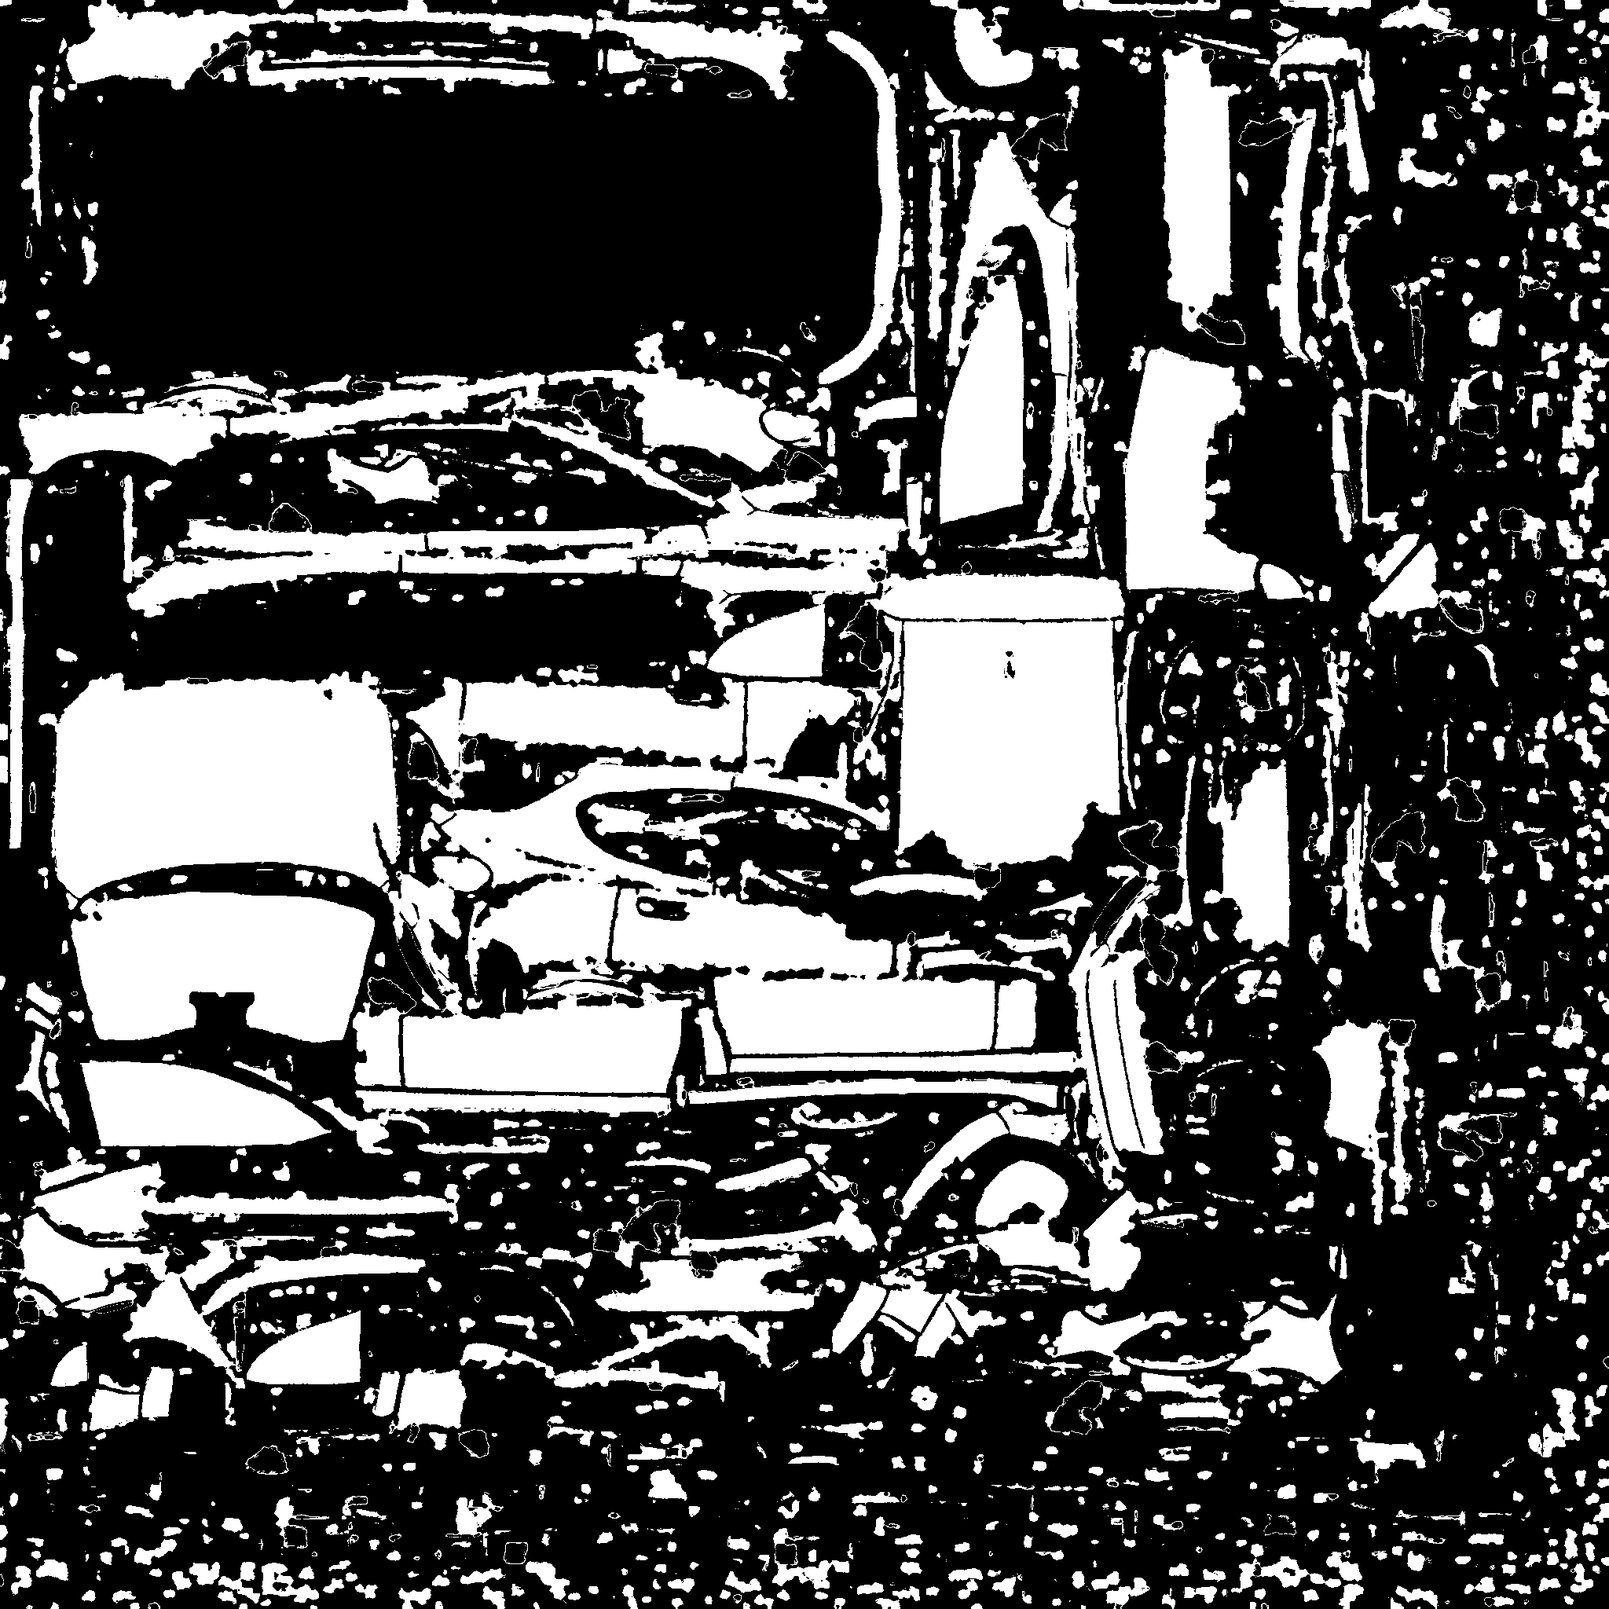
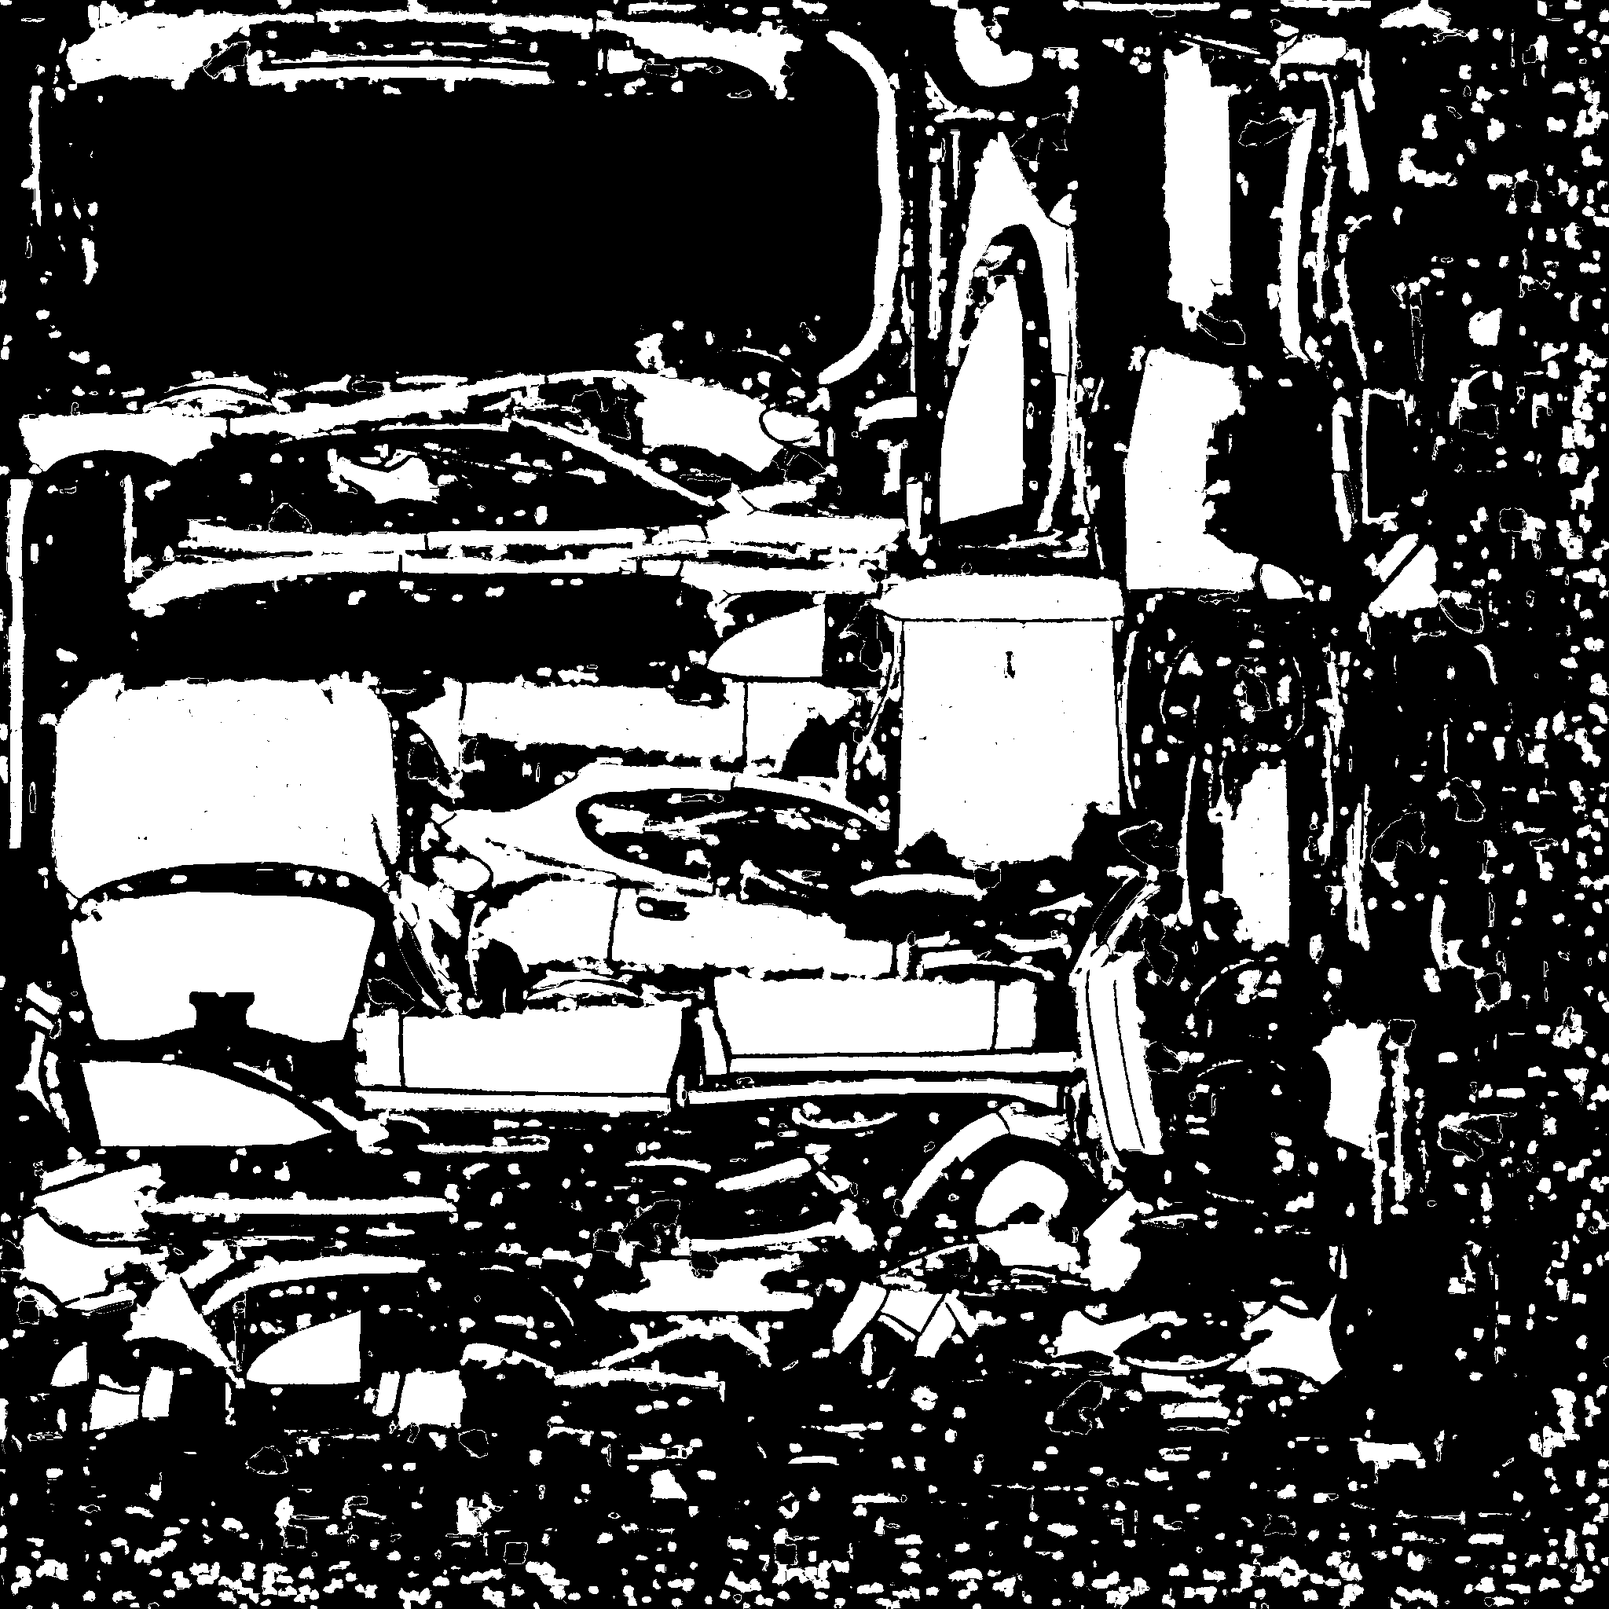
Lackmaske auf die UV-Abdeckung begrenzen, plus Kontrollansicht
paintmask.abdeckung rasterisiert die UV-Dreiecke und begrenzt die Maske auf
die Texel, die ueberhaupt auf dem Modell landen. Die Abtastdichte richtet sich
nach der laengsten Kante eines Dreiecks in Texeln; was groesser ist als die
letzte Stufe, wird einzeln und exakt rasterisiert. Die dominante Farbe wird
ebenfalls nur noch aus den geltenden Texeln bestimmt.

Der Anlass war eine Fehldiagnose, und die gehoert festgehalten. Die Maske war
nicht verrauscht und der Atlas nicht halb leer:

  32,9 % der genutzten Flaeche, und die sind 97,1 % des Atlas
   0,8 % vereinzelte Texel

Bei 97,1 Prozent Belegung gibt es keinen nennenswerten unbenutzten Bereich,
aus dem Muell haette kommen koennen. Was im Schwarzweissbild wie Sprenkel
aussah, ist die Chart-Struktur: xatlas zerlegt das Fahrzeug in rund 8000
Flicken, eine durchgehende Motorhaube erscheint darin als tausend Inseln. Das
Rauschmass - Anteil der Maskentexel ohne maskierte Nachbarn - liegt bei 0,8
Prozent, die Maske ist also zusammenhaengend.

Gegengeprueft, ob Lack uebersehen wird: von den roten, bunten Texeln erfasst
die Maske 80,6 Prozent. Die fehlenden 19,4 Prozent haben eine Helligkeit von
im Median 0,034 und selbst im 90. Perzentil nur 0,109 - Schattenbereiche der
3D-Schattierung, die das 2D-System mit helligkeit_min 0.06 bewusst ausschliesst.

Die Begrenzung bleibt trotzdem drin: sie ist richtig und greift bei Modellen
mit duenner besetztem Atlas.

Neu ist ausserdem die Kontrollansicht neben der Maske - die Textur mit
[…]

diff --git a/trellis_pipeline/paintmask.py b/trellis_pipeline/paintmask.py
@@ -105,14 +105,21 @@ def _arrays(bild: Image.Image) -> tuple[np.ndarray, np.ndarray]:
 
 def dominante_farbe(bild: Image.Image) -> tuple[int, int, int]:
     """Haeufigste sichtbare Farbe - der Rueckfall fuer die Referenzfarbe."""
-    return _dominante_arr(*_arrays(bild))
+    rgb, alpha = _arrays(bild)
+    return _dominante_arr(rgb, alpha > _ALPHA_SICHTBAR)
 
 
-def _dominante_arr(rgb: np.ndarray, alpha: np.ndarray) -> tuple[int, int, int]:
-    sichtbar = rgb[alpha > _ALPHA_SICHTBAR]
-    if sichtbar.size == 0:
+def _dominante_arr(rgb: np.ndarray, gilt: np.ndarray) -> tuple[int, int, int]:
+    """Haeufigste Farbe unter den geltenden Texeln.
+
+    ``gilt`` ist bereits die fertige Auswahl - bei einem Atlas also inklusive
+    UV-Abdeckung. Ohne das waere die dominante Farbe womoeglich die des
+    unbenutzten Atlasbereichs, der oft groesser ist als das Fahrzeug.
+    """
+    auswahl = rgb[gilt]
+    if auswahl.size == 0:
         return (128, 128, 128)
-    grob = (sichtbar // 16).astype(np.int32)
+    grob = (auswahl // 16).astype(np.int32)
     schluessel = grob[:, 0] * 1024 + grob[:, 1] * 32 + grob[:, 2]
     werte, anzahl = np.unique(schluessel, return_counts=True)
     top = int(werte[anzahl.argmax()])
@@ -120,15 +127,150 @@ def _dominante_arr(rgb: np.ndarray, alpha: np.ndarray) -> tuple[int, int, int]:
             int((top % 32) * 16 + 8))
 
 
-def maske(bild: Image.Image, werte: dict) -> np.ndarray:
+#: Wieviele Texel Saum die Abdeckung ueber die Dreiecke hinaus bekommt.
+#: Der Texturierer laesst um jeden Chart einen Rand mitlaufen, damit beim
+#: Filtern nichts Fremdes hereingezogen wird. Dieser Rand gehoert zum Lack.
+ABDECKUNG_SAUM = 2
+
+#: Abtaststufen. Ein Dreieck kommt in die erste Stufe, deren Ordnung mindestens
+#: seiner laengsten Kante in Texeln entspricht - so faellt zwischen den
+#: Abtastpunkten nie mehr als ein Texel durch. Was groesser ist als die letzte
+#: Stufe, wird einzeln rasterisiert.
+ABDECKUNG_STUFEN = (2, 4, 8, 16, 32)
+
+#: Wieviele Dreiecke auf einmal abgetastet werden. 460.000 Dreiecke mal 15
+#: Punkte auf einen Schlag waeren einige hundert Megabyte.
+ABDECKUNG_BLOCK = 100_000
+
+
+def _baryzentrisch(ordnung: int) -> np.ndarray:
+    """Gleichmaessige Punkte im Dreieck, als Gewichte der drei Ecken."""
+    punkte = [(i / ordnung, j / ordnung, (ordnung - i - j) / ordnung)
+              for i in range(ordnung + 1) for j in range(ordnung + 1 - i)]
+    return np.asarray(punkte, dtype=np.float32)
+
+
+def _abtasten(ecken: np.ndarray, ordnung: int, breite: int, hoehe: int,
+              deck: np.ndarray) -> None:
+    """Dreiecke gleicher Groessenordnung auf einen Schlag abtasten."""
+    gewichte = _baryzentrisch(ordnung)
+    for start in range(0, len(ecken), ABDECKUNG_BLOCK):
+        block = ecken[start:start + ABDECKUNG_BLOCK]            # (n, 3, 2)
+        punkte = np.einsum("kd,ndc->nkc", gewichte, block)      # (n, k, 2)
+        _eintragen(punkte[..., 0].ravel(), punkte[..., 1].ravel(),
+                   breite, hoehe, deck)
+
+
+def _eintragen(u: np.ndarray, v: np.ndarray, breite: int, hoehe: int,
+               deck: np.ndarray) -> None:
+    # v = 0 liegt in glTF unten, Zeile 0 eines Bildes liegt oben.
+    spalte = np.clip(np.rint(u * (breite - 1)), 0, breite - 1).astype(np.int32)
+    zeile = np.clip(np.rint((1.0 - v) * (hoehe - 1)), 0, hoehe - 1).astype(np.int32)
+    deck[zeile, spalte] = True
+
+
+def _rasterisieren(ecken: np.ndarray, breite: int, hoehe: int,
+                   deck: np.ndarray) -> None:
+    """Einzeln und vollstaendig - fuer die wenigen sehr grossen Dreiecke.
+
+    Ueber das umschliessende Rechteck und einen baryzentrischen Test. Fuer
+    tausende kleine Dreiecke waere das viel zu langsam, fuer eine Handvoll
+    grosse ist es genau richtig und exakt.
+    """
+    for dreieck in ecken:
+        x = dreieck[:, 0] * (breite - 1)
+        y = (1.0 - dreieck[:, 1]) * (hoehe - 1)
+        x0, x1 = int(np.floor(x.min())), int(np.ceil(x.max()))
+        y0, y1 = int(np.floor(y.min())), int(np.ceil(y.max()))
+        x0, y0 = max(x0, 0), max(y0, 0)
+        x1, y1 = min(x1, breite - 1), min(y1, hoehe - 1)
+        if x1 < x0 or y1 < y0:
+            continue
+        gx, gy = np.meshgrid(np.arange(x0, x1 + 1), np.arange(y0, y1 + 1))
+        flaeche = ((x[1] - x[0]) * (y[2] - y[0]) - (x[2] - x[0]) * (y[1] - y[0]))
+        if abs(flaeche) < 1e-12:
+            continue
+        a = ((x[1] - gx) * (y[2] - gy) - (x[2] - gx) * (y[1] - gy)) / flaeche
+        b = ((x[2] - gx) * (y[0] - gy) - (x[0] - gx) * (y[2] - gy)) / flaeche
+        drin = (a >= -1e-6) & (b >= -1e-6) & (a + b <= 1 + 1e-6)
+        deck[y0:y1 + 1, x0:x1 + 1] |= drin
+
+
+def abdeckung(uv: np.ndarray, faces: np.ndarray, groesse: tuple[int, int],
+              saum: int = ABDECKUNG_SAUM) -> np.ndarray:
+    """Welche Texel der Textur ueberhaupt auf dem Modell landen.
+
+    xatlas packt das Fahrzeug in tausende Flicken und laesst dazwischen grosse
+    Teile des Atlas frei - beim rookie sind es rund 8000 Charts auf 2048 x 2048.
+    Was in den Zwischenraeumen steht, ist Fuellmaterial und wird nie gezeichnet.
+    Eine Lackmaske, die das ganze Bild ansieht, zaehlt es trotzdem mit; im
+    ersten Lauf waren so 32,7 Prozent der Texturflaeche als Lack markiert,
+    ueberzogen mit Sprenkeln aus dem unbenutzten Bereich.
+
+    Abgetastet statt exakt rasterisiert: die Dreiecke sind im Atlas winzig -
+    460.000 Dreiecke auf 4,2 Millionen Texel sind im Mittel neun Texel pro
+    Dreieck -, und 15 baryzentrische Punkte je Dreieck treffen davon jedes.
+    Der Saum schliesst, was zwischen den Abtastpunkten durchfaellt, und bildet
+    zugleich den Rand ab, den der Texturierer um jeden Chart legt.
+
+    ``groesse`` ist (Breite, Hoehe) wie bei Pillow; zurueck kommt ein Feld in
+    Bildanordnung, also (Hoehe, Breite).
+    """
+    breite, hoehe = int(groesse[0]), int(groesse[1])
+    deck = np.zeros((hoehe, breite), dtype=bool)
+    faces = np.asarray(faces)
+    if faces.size == 0 or uv is None or len(uv) == 0:
+        return deck
+
+    uv = np.asarray(uv, dtype=np.float32)
+    alle = uv[faces]                                            # (F, 3, 2)
+
+    # Laengste Kante je Dreieck in Texeln - danach richtet sich die Abtastdichte.
+    in_texeln = alle * np.array([breite - 1, hoehe - 1], dtype=np.float32)
+    kanten = np.linalg.norm(
+        in_texeln - in_texeln[:, [1, 2, 0], :], axis=2).max(axis=1)
+
+    offen = np.ones(len(alle), dtype=bool)
+    for stufe in ABDECKUNG_STUFEN:
+        dran = offen & (kanten <= stufe)
+        if dran.any():
+            _abtasten(alle[dran], stufe, breite, hoehe, deck)
+            offen &= ~dran
+    if offen.any():
+        _rasterisieren(alle[offen], breite, hoehe, deck)
+
+    if saum > 0:
+        from scipy import ndimage
+        deck = ndimage.binary_dilation(
+            deck, structure=np.ones((2 * saum + 1, 2 * saum + 1), dtype=bool))
+    return deck
+
+
+def abdeckung_fuer(mesh, groesse: tuple[int, int]) -> np.ndarray | None:
+    """Abdeckung direkt aus einem Mesh. ``None``, wenn es keine UVs hat."""
+    uv = getattr(getattr(mesh, "visual", None), "uv", None)
+    if uv is None or len(uv) == 0:
+        return None
+    return abdeckung(np.asarray(uv), np.asarray(mesh.faces), groesse)
+
+
+def maske(bild: Image.Image, werte: dict,
+          abdeckung: np.ndarray | None = None) -> np.ndarray:
     """Maskengewichte 0…1 je Texel.
 
     Das **Helligkeitsfenster** gilt in beiden Verfahren. Es ist der Hebel gegen
     mitgezaehlte Scheiben und Reifen: bei einem grauen Auto mit grauen Fenstern
     trennt keine Farbschwelle die beiden, ein Helligkeitsunterschied schon.
+
+    ``abdeckung`` begrenzt das Ergebnis auf die Texel, die tatsaechlich auf dem
+    Modell landen - siehe :func:`abdeckung`. Ohne sie wird das ganze Bild
+    ausgewertet, was bei einem freigestellten 2D-Sprite richtig ist, bei einem
+    UV-Atlas aber nicht.
     """
     rgb, alpha = _arrays(bild)
     sichtbar = alpha > _ALPHA_SICHTBAR
+    if abdeckung is not None:
+        sichtbar = sichtbar & abdeckung
     lum = (0.299 * rgb[..., 0] + 0.587 * rgb[..., 1] + 0.114 * rgb[..., 2]) / 255.0
 
     verfahren = werte.get("verfahren", "aus")
@@ -140,7 +282,7 @@ def maske(bild: Image.Image, werte: dict) -> np.ndarray:
     elif verfahren == "dominant":
         ref = werte.get("referenzfarbe")
         if not ref:
-            ref = _dominante_arr(rgb, alpha)
+            ref = _dominante_arr(rgb, sichtbar)
         abweichung = rgb - np.array(ref[:3], dtype=np.float32)
         # Quadratisch vergleichen - die Wurzel je Texel bringt nichts.
         grenze = float(werte.get("farbtoleranz", 0.18)) * _RGB_DIAGONALE
@@ -164,3 +306,39 @@ def als_png(gewicht: np.ndarray) -> Image.Image:
     """Maske als 8-Bit-Graustufenbild - weiss ist Lack."""
     return Image.fromarray(
         np.clip(gewicht * 255.0, 0, 255).astype(np.uint8), mode="L")
+
+
+#: Wie stark Unmaskiertes im Kontrollbild abgedunkelt wird.
+KONTROLLE_DUNKEL = 0.18
+
+
+def kontrollbild(bild: Image.Image, gewicht: np.ndarray) -> Image.Image:
+    """Die Textur mit abgedunkeltem Nicht-Lack.
+
+    Die reine Schwarzweissmaske ist irrefuehrend: xatlas zerlegt das Fahrzeug
+    in tausende Charts, eine durchgehende Motorhaube erscheint darin als
+    tausend kleine Inseln. Das sieht nach Rauschen aus, ist aber die
+    Atlas-Struktur. Auf der Textur liegend ist sofort erkennbar, ob die roten
+    Flaechen echten Karosserieteilen folgen.
+    """
+    rgb = np.asarray(bild.convert("RGB"), dtype=np.float32)
+    fest = gewicht[..., None] > 0.5
+    return Image.fromarray(
+        np.where(fest, rgb, rgb * KONTROLLE_DUNKEL).astype(np.uint8), mode="RGB")
+
+
+def vereinzelt(gewicht: np.ndarray) -> float:
+    """Anteil der Maskentexel, die kaum maskierte Nachbarn haben.
+
+    Das Mass fuer echtes Rauschen. Eine saubere Flaeche liegt nahe null, weil
+    fast jeder Texel von seinesgleichen umgeben ist; Salz und Pfeffer treibt
+    den Wert nach oben. Am rookie sind es 0,8 Prozent - die Maske ist also
+    zusammenhaengend, auch wenn sie zerstueckelt aussieht.
+    """
+    from scipy import ndimage
+
+    fest = gewicht > 0.5
+    if not fest.any():
+        return 0.0
+    nachbarn = ndimage.uniform_filter(fest.astype(np.float32), size=3)
+    return float((fest & (nachbarn < 0.4)).sum()) / float(fest.sum())

diff --git a/tests/test_abdeckung.py b/tests/test_abdeckung.py
@@ -1,0 +1,120 @@
+"""UV-Abdeckung: welche Texel im Atlas ueberhaupt auf dem Modell landen."""
+import numpy as np
+import pytest
+from PIL import Image
+
+from trellis_pipeline import paintmask
+
+
+def _dreieck_uv():
+    """Ein Dreieck ueber das linke untere Viertel der Textur."""
+    uv = np.array([[0.0, 0.0], [0.5, 0.0], [0.0, 0.5]], dtype=np.float32)
+    faces = np.array([[0, 1, 2]], dtype=np.int64)
+    return uv, faces
+
+
+def test_abgedeckt_ist_wo_das_dreieck_liegt():
+    uv, faces = _dreieck_uv()
+    deck = paintmask.abdeckung(uv, faces, (64, 64), saum=0)
+    # v = 0 ist in glTF unten, in einem Bild ist Zeile 0 oben.
+    assert deck[63, 0], "Ecke bei u=0, v=0 gehoert nach unten links"
+    assert deck[63, 30]
+    assert deck[35, 0]
+    assert not deck[0, 63], "gegenueberliegende Ecke ist unbenutzt"
+
+
+def test_flaeche_stimmt_ungefaehr():
+    uv, faces = _dreieck_uv()
+    deck = paintmask.abdeckung(uv, faces, (128, 128), saum=0)
+    # Halbes Quadrat von einem Viertel der Kantenlaenge = 1/8 der Flaeche
+    assert deck.mean() == pytest.approx(0.125, abs=0.02)
+
+
+def test_saum_erweitert_die_abdeckung():
+    uv, faces = _dreieck_uv()
+    eng = paintmask.abdeckung(uv, faces, (64, 64), saum=0)
+    weit = paintmask.abdeckung(uv, faces, (64, 64), saum=3)
+    assert weit.sum() > eng.sum()
+    assert weit[eng].all(), "der Saum darf nichts wegnehmen"
+
+
+def test_uv_ausserhalb_des_bildes_kippt_nichts():
+    uv = np.array([[-0.5, -0.5], [1.5, 0.0], [0.0, 1.5]], dtype=np.float32)
+    faces = np.array([[0, 1, 2]], dtype=np.int64)
+    deck = paintmask.abdeckung(uv, faces, (32, 32), saum=0)
+    assert deck.shape == (32, 32)
+    assert deck.any()
+
+
+def test_ohne_dreiecke_ist_nichts_abgedeckt():
+    deck = paintmask.abdeckung(np.zeros((0, 2), dtype=np.float32),
+                               np.zeros((0, 3), dtype=np.int64), (16, 16))
+    assert not deck.any()
+
+
+def _textur_mit_muell():
+    """Lack auf der linken Haelfte, rechts unbenutzter Atlasbereich mit Muell.
+
+    Genau die Lage im echten Modell: xatlas laesst grosse Teile des Atlas frei,
+    und was dort steht, landet nie auf dem Fahrzeug - zaehlt aber mit, solange
+    die Maske das ganze Bild ansieht.
+    """
+    rng = np.random.default_rng(5)
+    bild = np.zeros((64, 64, 3), dtype=np.uint8)
+    bild[:, :32] = (203, 60, 59)
+    bild[:, 32:] = rng.integers(0, 255, size=(64, 32, 3), dtype=np.uint8)
+    return Image.fromarray(bild, mode="RGB")
+
+
+ROOKIE_PAINT = {
+    "verfahren": "dominant", "referenzfarbe": [203, 60, 59], "farbtoleranz": 0.3,
+    "helligkeit_min": 0.06, "helligkeit_max": 0.51, "kantenweichheit": 0.0,
+    "deckkraft": 1.0, "saettigungsschwelle": 0.25,
+}
+
+
+def test_maske_ohne_abdeckung_zaehlt_den_muell_mit():
+    """Der Ist-Zustand, gegen den der Fix gebaut ist."""
+    maske = paintmask.maske(_textur_mit_muell(), ROOKIE_PAINT)
+    assert maske[:, 32:].any(), "Vorbedingung: der Muellbereich trifft die Maske"
+
+
+def test_abdeckung_schneidet_den_unbenutzten_atlas_weg():
+    deck = np.zeros((64, 64), dtype=bool)
+    deck[:, :32] = True
+    maske = paintmask.maske(_textur_mit_muell(), ROOKIE_PAINT, abdeckung=deck)
+    assert maske[:, :32].min() == pytest.approx(1.0), "der Lack bleibt vollstaendig"
+    assert maske[:, 32:].max() == pytest.approx(0.0), "der unbenutzte Atlas ist weg"
+
+
+def test_vereinzelt_misst_echtes_rauschen():
+    """Das Mass muss eine geschlossene Flaeche von Salz und Pfeffer trennen."""
+    flaeche = np.zeros((64, 64), dtype=np.float32)
+    flaeche[16:48, 16:48] = 1.0
+    assert paintmask.vereinzelt(flaeche) < 0.02
+
+    rng = np.random.default_rng(11)
+    salz = (rng.random((64, 64)) < 0.25).astype(np.float32)
+    assert paintmask.vereinzelt(salz) > 0.5
+
+
+def test_vereinzelt_ist_null_ohne_maske():
+    assert paintmask.vereinzelt(np.zeros((8, 8), dtype=np.float32)) == 0.0
+
+
+def test_kontrollbild_dunkelt_nur_das_unmaskierte_ab():
+    bild = Image.fromarray(np.full((8, 8, 3), (200, 100, 50), dtype=np.uint8), "RGB")
+    gewicht = np.zeros((8, 8), dtype=np.float32)
+    gewicht[:, :4] = 1.0
+    k = np.asarray(paintmask.kontrollbild(bild, gewicht))
+    assert tuple(k[0, 0]) == (200, 100, 50), "Lack bleibt unveraendert"
+    assert k[0, 7][0] < 60, "Nicht-Lack wird abgedunkelt"
+
+
+def test_abdeckung_greift_auch_bei_kantenweichheit():
+    """Die Weichzeichnung darf nicht wieder ueber die Abdeckung hinauslaufen."""
+    deck = np.zeros((64, 64), dtype=bool)
+    deck[:, :32] = True
+    maske = paintmask.maske(_textur_mit_muell(),
+                            dict(ROOKIE_PAINT, kantenweichheit=4.0), abdeckung=deck)
+    assert maske[:, 32:].max() == pytest.approx(0.0)

diff --git a/trellis_import.py b/trellis_import.py
@@ -127,13 +127,39 @@ def _lackmaske(mesh, key: str, vehicles_dir: Path, ziel_glb: Path,
               f"Kennwerte im Fahrzeuglabor abstimmen.")
         return
 
-    gewicht = paintmask.maske(textur, werte)
+    # Nur die Texel bewerten, die ueberhaupt auf dem Fahrzeug landen. xatlas
+    # laesst grosse Teile des Atlas frei, und was dort steht wird nie
+    # gezeichnet - zaehlt ohne diese Begrenzung aber als Lack mit.
+    deckung = paintmask.abdeckung_fuer(mesh, textur.size)
+    if deckung is None:
+        print("HINWEIS         Modell hat keine UV-Koordinaten - Maske ueber das "
+              "ganze Bild, im Atlas ungenau")
+
+    gewicht = paintmask.maske(textur, werte, abdeckung=deckung)
     ziel_png = ziel_glb.with_name(f"{key}_lackmaske.png")
     paintmask.als_png(gewicht).save(ziel_png)
-    anteil = float(gewicht.mean()) * 100.0
-    print(f"Lackmaske       {ziel_png}  ({anteil:.1f} % der Texturflaeche)")
-    if anteil < 2.0:
+
+    # Die reine Maske taeuscht: die Atlas-Charts lassen eine zusammenhaengende
+    # Flaeche zerstueckelt aussehen. Auf der Textur liegend ist in Sekunden zu
+    # sehen, ob die Auswahl echten Karosserieteilen folgt.
+    kontrolle = ziel_glb.with_name(f"{key}_lackmaske_kontrolle.png")
+    paintmask.kontrollbild(textur, gewicht).save(kontrolle)
+
+    if deckung is None:
+        bezug, wovon = float(gewicht.mean()) * 100.0, "der Texturflaeche"
+    else:
+        genutzt = float(deckung.mean()) * 100.0
+        bezug = float(gewicht.sum()) / max(int(deckung.sum()), 1) * 100.0
+        wovon = f"der genutzten Flaeche, und die sind {genutzt:.1f} % des Atlas"
+    einsam = paintmask.vereinzelt(gewicht) * 100.0
+    print(f"Lackmaske       {ziel_png}")
+    print(f"                {bezug:.1f} % {wovon}")
+    print(f"                {einsam:.1f} % vereinzelte Texel (Rauschmass)")
+    print(f"Kontrollansicht {kontrolle}")
+    if bezug < 5.0:
         print("WARNUNG         Maske trifft fast nichts - Kennwerte pruefen")
+    if einsam > 10.0:
+        print("WARNUNG         Maske ist verrauscht - Kennwerte pruefen")
 
 
 def main(argv=None) -> int:
